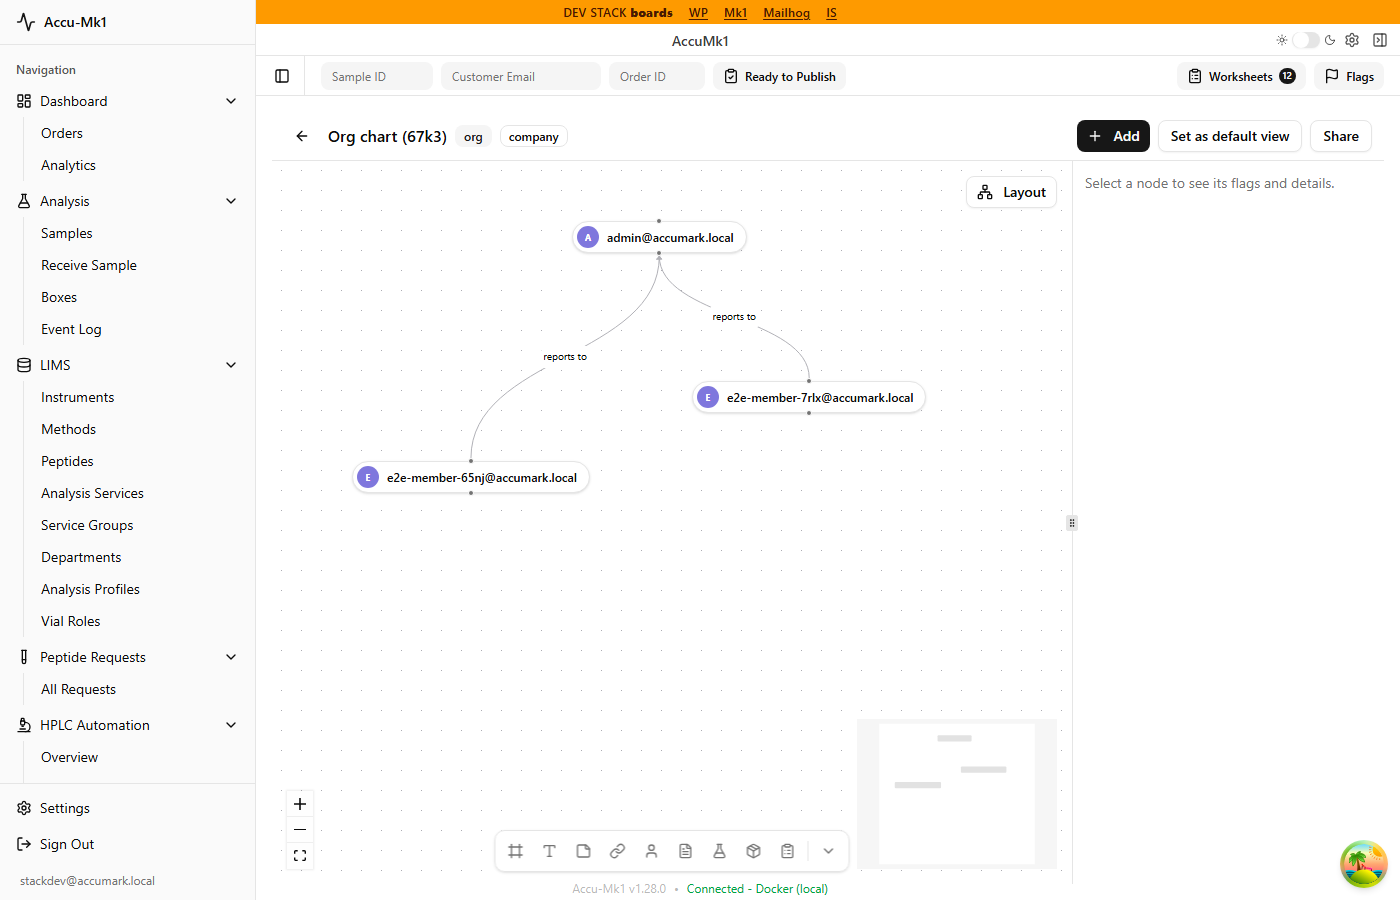
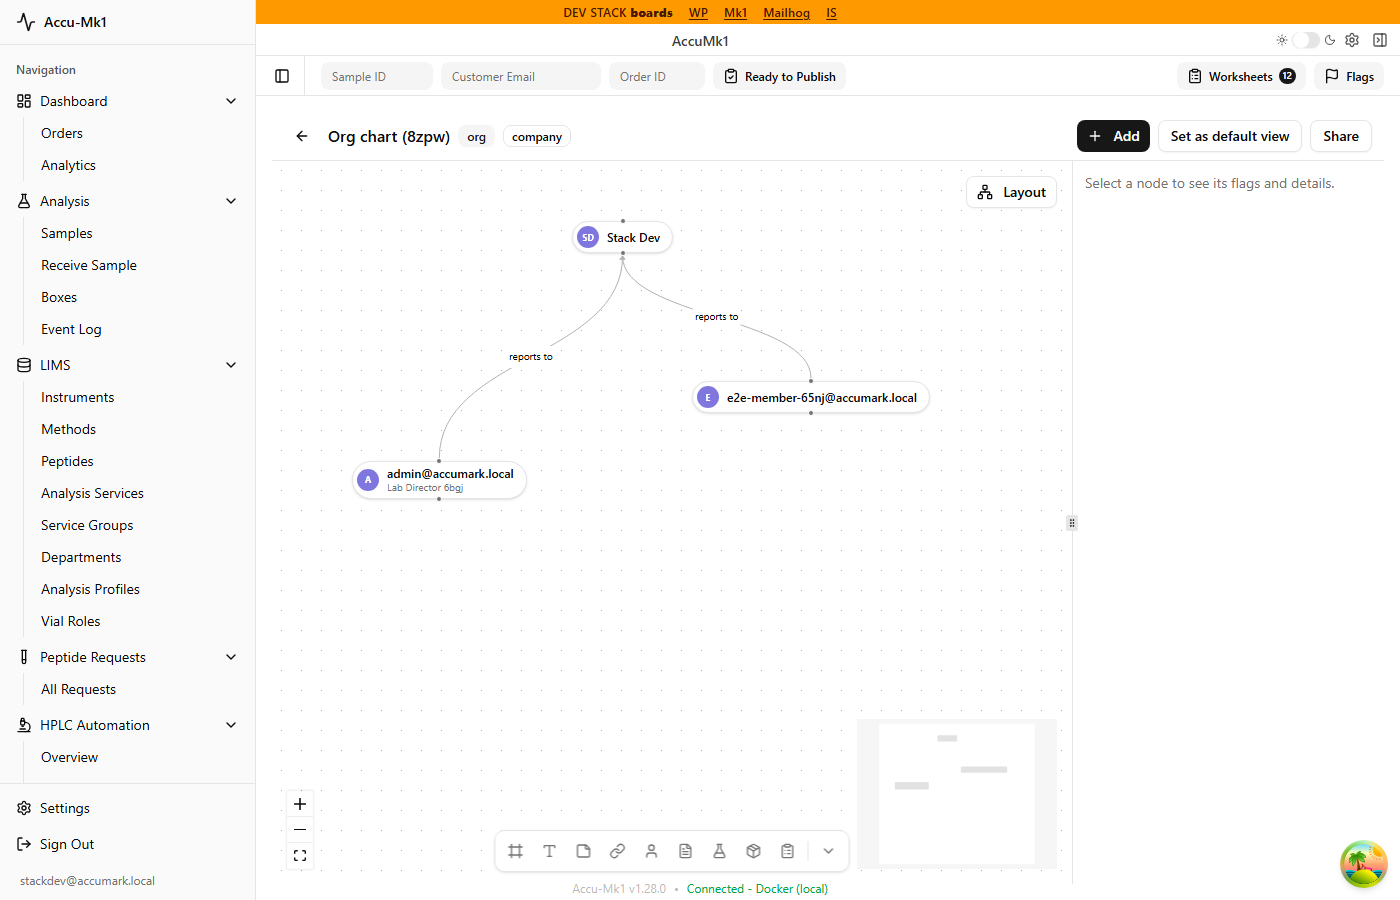
test(e2e): person card shows the title, switches to email; evidence re-taken
The manager is a named directory user when the stack has one; the same-rank
check allows the height of a card that shows a title; the test restores the
user's title afterwards.

diff --git a/e2e/planning-boards-layout.spec.ts b/e2e/planning-boards-layout.spec.ts
@@ -91,6 +91,7 @@ async function open(page: Page) {
 let boss = 0
 let reportA = 0
 let reportB = 0
+let bossUserId = 0
 const SEED = [
   { x: 300, y: 60 },
   { x: 80, y: 300 },
@@ -112,8 +113,16 @@ test('seed an org board through the API', async ({ request }) => {
 
   const users = (await (
     await request.get(`${BACKEND_URL}/worksheets/users`, { headers: h })
-  ).json()) as { id: number }[]
+  ).json()) as {
+    id: number
+    first_name?: string | null
+    last_name?: string | null
+  }[]
   expect(users.length).toBeGreaterThan(0)
+  // The manager is a user with both names when the stack has one, so the person-card test
+  // can tell the name line from the email line.
+  const named = users.find(u => u.first_name && u.last_name) ?? users[0]
+  const pick = [named, ...users.filter(u => u !== named)]
   const ids: number[] = []
   for (const [i, at] of SEED.entries()) {
     const r = await request.post(`${BACKEND_URL}/api/boards/${SLUG}/nodes`, {
@@ -122,13 +131,14 @@ test('seed an org board through the API', async ({ request }) => {
         kind: 'person',
         label: `Person ${i + 1}`,
         ...at,
-        data: { user_id: users[i % users.length]?.id },
+        data: { user_id: pick[i % pick.length]?.id },
       },
     })
     expect(r.status(), await r.text()).toBe(201)
     ids.push(((await r.json()) as { id: number }).id)
   }
   ;[boss, reportA, reportB] = ids as [number, number, number]
+  bossUserId = named?.id ?? 0
 
   // Stored as "report reports_to manager".
   const e = await request.post(`${BACKEND_URL}/api/boards/${SLUG}/edges`, {
@@ -187,7 +197,10 @@ test('Layout puts the manager above the reports, and Undo puts everything back',
   const after = xy((await detail(request)).nodes)
   record('layout', { before, after })
   expect(after[boss]!.y).toBeLessThan(after[reportA]!.y)
-  expect(after[reportA]!.y).toBe(after[reportB]!.y)
+  // Same rank: dagre aligns rank centres, and a card showing a title is a line taller.
+  expect(Math.abs(after[reportA]!.y - after[reportB]!.y)).toBeLessThanOrEqual(
+    20
+  )
   expect(after[reportA]!.x).not.toBe(after[reportB]!.x)
   await shot(page, '02-org-board-after-layout.png')
 
@@ -232,4 +245,71 @@ test('the kind picker retypes a line and keeps it drawn the same way', async ({
   const related = edges.find(e => e.kind === 'related')
   expect(related?.source_id).toBe(boss)
   expect([reportA, reportB]).toContain(related?.target_id)
+})
+
+test('a person card shows the job title, and can show the email instead', async ({
+  page,
+  request,
+}) => {
+  const h = bearer(await token(request))
+  const title = `Lab Director ${RUN}`
+  const was = (await (
+    await request.get(`${BACKEND_URL}/auth/users/${bossUserId}`, { headers: h })
+  ).json()) as { title?: string | null }
+  const r = await request.put(`${BACKEND_URL}/auth/users/${bossUserId}`, {
+    headers: h,
+    data: { title },
+  })
+  expect(r.status(), await r.text()).toBe(200)
+  const users = (await (
+    await request.get(`${BACKEND_URL}/worksheets/users`, { headers: h })
+  ).json()) as {
+    id: number
+    email: string
+    first_name?: string | null
+    last_name?: string | null
+    title: string | null
+  }[]
+  const bossUser = users.find(u => u.id === bossUserId)
+  if (!bossUser) throw new Error('manager user not in the directory')
+  expect(bossUser.title).toBe(title)
+  // The name line falls back to the email on a user with no names (same rule as the app).
+  const nameLine =
+    [bossUser.first_name, bossUser.last_name].filter(Boolean).join(' ') ||
+    bossUser.email
+  record('person_name_line', { nameLine, email: bossUser.email })
+
+  await open(page)
+  const card = page.locator(`.react-flow__node[data-id="${boss}"]`)
+  await expect(card).toContainText(title)
+  await expect(card).toContainText(nameLine)
+  if (nameLine !== bossUser.email)
+    await expect(card).not.toContainText(bossUser.email)
+  await shot(page, '04-person-card-title.png')
+
+  // Select the card: the side panel offers Name / Email and the title switch.
+  await card.click({ position: { x: 12, y: 12 } })
+  await page.getByRole('radio', { name: 'Email' }).click()
+  await expect(card).toContainText(bossUser.email, { timeout: 10_000 })
+  if (nameLine !== bossUser.email)
+    await expect(card).not.toContainText(nameLine, { timeout: 10_000 })
+  await page.getByRole('switch', { name: 'Show title' }).click()
+  await expect(card).not.toContainText(title, { timeout: 10_000 })
+  const node = (await detail(request)).nodes.find(n => n.id === boss) as
+    | (NodeRow & { data: Record<string, unknown> })
+    | undefined
+  record('person_display', node?.data)
+  expect(node?.data).toEqual({
+    user_id: bossUserId,
+    show: 'email',
+    show_title: false,
+  })
+  await shot(page, '05-person-card-email.png')
+
+  // Leave the shared stack user as it was (empty string clears the title).
+  const back = await request.put(`${BACKEND_URL}/auth/users/${bossUserId}`, {
+    headers: h,
+    data: { title: was.title ?? '' },
+  })
+  expect(back.status()).toBe(200)
 })
